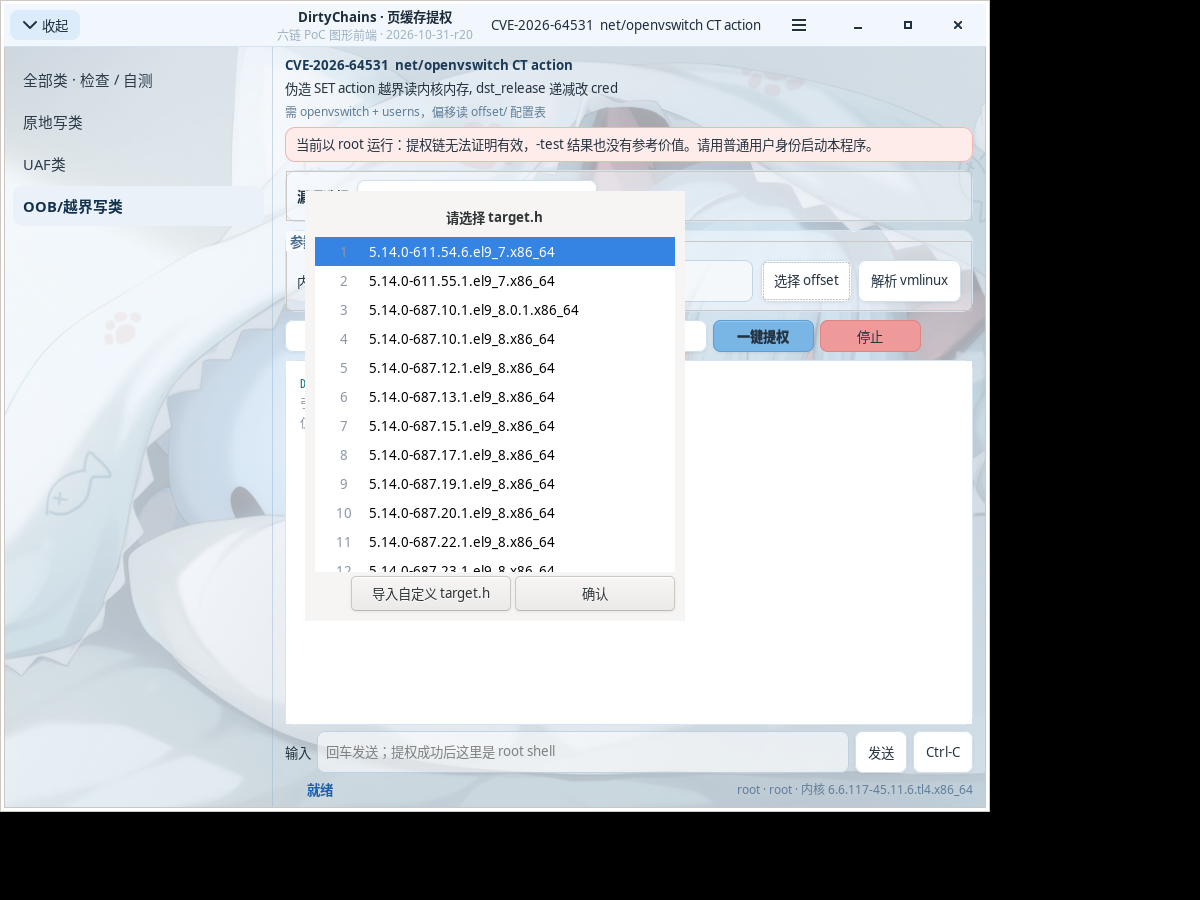
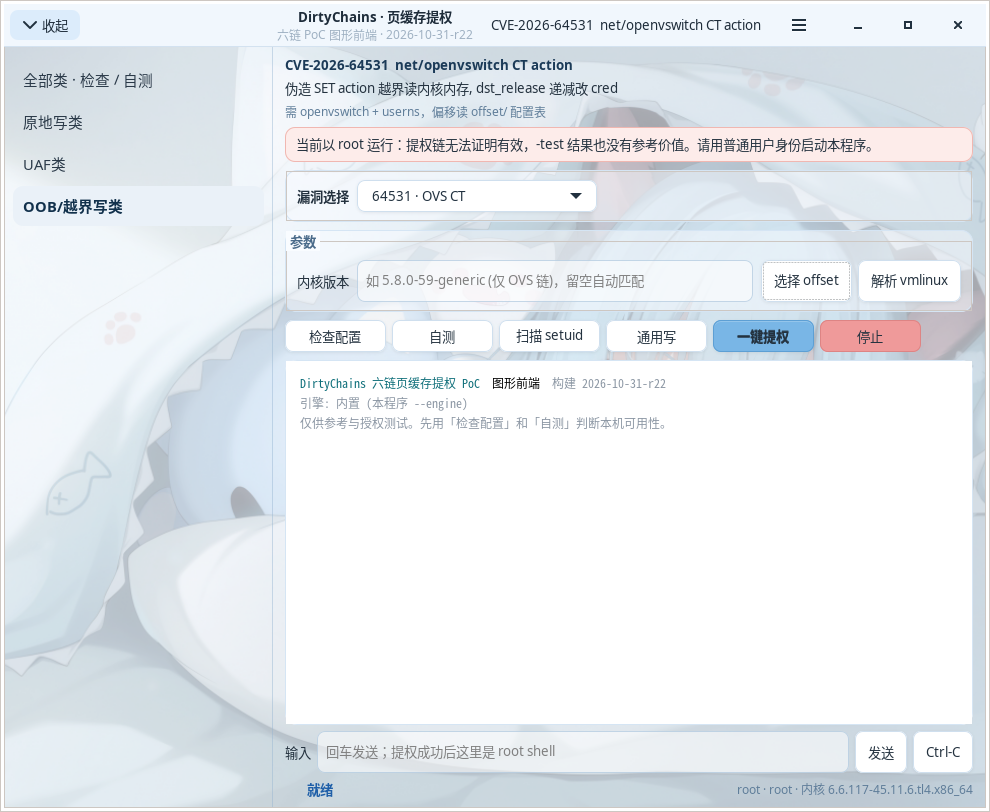
选择 target.h 窗口改为无边框圆角卡片：右上关闭、标题行可拖、Esc 关闭；新增关键字过滤(实时重编号)

diff --git a/dirtyfrag-gui.c b/dirtyfrag-gui.c
@@ -3693,7 +3693,7 @@ int ovswrap_main(int argc, char **argv)
 
 #define APP_TITLE       "DirtyChains · 页缓存提权"
 /* 构建标识: 标题栏副标题上直接显示, 用来确认跑的是不是最新这份 */
-#define DF_BUILD        "2026-10-31-r20"
+#define DF_BUILD        "2026-10-31-r22"
 #define APP_SUBTITLE    "六链 PoC 图形前端 · " DF_BUILD
 #define LOG_MAX_LINES   20000
 #define PTY_COLS        110
@@ -5196,9 +5196,14 @@ typedef struct {
     App        *a;
     GtkWidget  *dlg;
     GtkWidget  *list;       /* GtkListBox */
+    GtkWidget  *search;     /* 过滤输入框 */
     GPtrArray  *names;      /* 配置名 = target.h 上一级目录名 */
+    GPtrArray  *rows;       /* 与 names 平行的行 widget */
+    GPtrArray  *nos;        /* 与 names 平行的序号 label */
     char       *sel;        /* 当前选中的名字 */
 } PickCtx;
+
+static void pick_apply_filter(PickCtx *c);
 
 /* offset/ 目录里找 target.h: 名字取它上一级目录名, 去重后收集 */
 static void scan_target_hs(const char *base, int depth, GPtrArray *out)
@@ -5276,6 +5281,8 @@ static void pick_reload(PickCtx *c)
     g_list_free(children);
 
     g_ptr_array_set_size(c->names, 0);
+    g_ptr_array_set_size(c->rows, 0);
+    g_ptr_array_set_size(c->nos, 0);
     g_free(c->sel);
     c->sel = NULL;
 
@@ -5308,8 +5315,68 @@ static void pick_reload(PickCtx *c)
         gtk_widget_set_margin_bottom(h, 3);
         gtk_container_add(GTK_CONTAINER(row), h);
         gtk_container_add(GTK_CONTAINER(c->list), row);
+
+        g_ptr_array_add(c->rows, row);
+        g_ptr_array_add(c->nos, no);
     }
+    /* 先让新行进入"已显示"状态, 再按关键字过滤隐藏 */
     gtk_widget_show_all(c->list);
+    if (c->search)
+        pick_apply_filter(c);
+}
+
+/*
+ * 过滤: 关键字(不分大小写)匹配配置名, 只显示命中行;
+ * 显示出来的行按 1..N 重新编号。清空关键字恢复全量。
+ */
+static void pick_apply_filter(PickCtx *c)
+{
+    const char *raw = gtk_entry_get_text(GTK_ENTRY(c->search));
+    char *q = g_ascii_strdown(raw, -1);
+    guint i;
+    int seq = 0;
+    gboolean sel_hit = FALSE;
+
+    for (i = 0; i < c->names->len; i++) {
+        const char *nm = g_ptr_array_index(c->names, i);
+        char *ln = g_ascii_strdown(nm, -1);
+        gboolean hit = (*q == '\0') || strstr(ln, q) != NULL;
+        GtkWidget *row = g_ptr_array_index(c->rows, i);
+        char buf[16];
+
+        gtk_widget_set_visible(row, hit);
+        if (hit) {
+            g_snprintf(buf, sizeof(buf), "%d", ++seq);
+            gtk_label_set_text(GTK_LABEL(g_ptr_array_index(c->nos, i)), buf);
+            if (c->sel && !strcmp(nm, c->sel))
+                sel_hit = TRUE;
+        }
+        g_free(ln);
+    }
+    g_free(q);
+
+    /* 选中项被过滤掉了: 取消选中, 免得确认到看不见的项 */
+    if (c->sel && !sel_hit) {
+        g_free(c->sel);
+        c->sel = NULL;
+        gtk_list_box_unselect_all(GTK_LIST_BOX(c->list));
+    }
+}
+
+static void on_pick_search_changed(GtkEditable *ed, gpointer data)
+{
+    (void)ed;
+    pick_apply_filter(data);
+}
+
+/* 输入框右侧的小叉: 一键清空关键字 */
+static void on_pick_search_clear(GtkEntry *e, GtkEntryIconPosition pos,
+                                 GdkEventButton *ev, gpointer data)
+{
+    (void)ev;
+    (void)data;
+    if (pos == GTK_ENTRY_ICON_SECONDARY)
+        gtk_entry_set_text(e, "");
 }
 
 static void pick_free(PickCtx *c)
@@ -5319,6 +5386,8 @@ static void pick_free(PickCtx *c)
     for (i = 0; i < c->names->len; i++)
         g_free(g_ptr_array_index(c->names, i));
     g_ptr_array_free(c->names, TRUE);
+    g_ptr_array_free(c->rows, TRUE);   /* 行 widget 随窗口销毁, 只放数组 */
+    g_ptr_array_free(c->nos, TRUE);
     g_free(c->sel);
 }
 
@@ -5359,7 +5428,16 @@ static char *ask_name(GtkWidget *parent, const char *prefill)
 
 static void pick_confirm(PickCtx *c)
 {
-    if (c->sel) {
+    if (!c->sel) {
+        /* 没选任何一项: 留在窗口里, 到主窗口给个提示 */
+        gtk_label_set_text(GTK_LABEL(c->a->status_lbl),
+                           "请先在列表里选一项 target.h");
+        gtk_widget_set_name(c->a->status_lbl, "status-warn");
+        log_append_plain(c->a, "[!] 未选择 target.h：请在列表中点选一项后再确认。\n");
+        log_flush(c->a);
+        return;
+    }
+    {
         gtk_entry_set_text(GTK_ENTRY(c->a->entry_krec), c->sel);
         gtk_label_set_text(GTK_LABEL(c->a->status_lbl), "已选择 offset 表");
         gtk_widget_set_name(c->a->status_lbl, "status-ok");
@@ -5446,7 +5524,8 @@ static void on_pick_import(GtkWidget *w, gpointer data)
                     g_snprintf(msg, sizeof(msg),
                                "\033[32m[+] 已导入配置表 %s (%ld 字节)。\033[0m\n",
                                path, (long)strlen(content));
-                    log_append_plain(c->a, msg);
+                    log_flush(c->a);
+                    ansi_feed(c->a, msg, strlen(msg));
                     log_flush(c->a);
                 } else {
                     log_append_plain(c->a, "[!] 写入 offset/ 失败。\n");
@@ -5481,18 +5560,6 @@ static void on_pick_import(GtkWidget *w, gpointer data)
     }
 }
 
-static void on_pick_response(GtkDialog *dlg, gint resp, gpointer data)
-{
-    PickCtx *c = data;
-
-    (void)dlg;
-    if (resp == GTK_RESPONSE_OK)
-        pick_confirm(c);
-    else if (resp == GTK_RESPONSE_NONE + 1)
-        on_pick_import(NULL, c);
-    /* 其余 (删除窗口事件) 直接关 */
-}
-
 /* 弹窗销毁时释放上下文 (ctx 是静态的, 关掉后再点按钮会重建) */
 static void pick_dlg_destroy(GtkWidget *w, gpointer data)
 {
@@ -5504,13 +5571,48 @@ static void pick_dlg_destroy(GtkWidget *w, gpointer data)
     c->list = NULL;
 }
 
-/* 「选择 offset」: 开窗口遍历程序目录下的 offset/, 名字用 target.h
- * 上一级目录名; 确认后把名字填进内核版本框 (OVS 链的 -krec)。 */
+static void on_pick_confirm_btn(GtkWidget *w, gpointer data)
+{
+    (void)w;
+    pick_confirm(data);
+}
+
+/* Esc 关窗 */
+static gboolean on_pick_key(GtkWidget *w, GdkEventKey *ev, gpointer data)
+{
+    PickCtx *c = data;
+
+    (void)w;
+    if (ev->keyval == GDK_KEY_Escape) {
+        gtk_widget_destroy(c->dlg);
+        return TRUE;
+    }
+    return FALSE;
+}
+
+/* 无边框窗口: 按住标题行拖动 */
+static gboolean on_pick_drag(GtkWidget *w, GdkEventButton *ev, gpointer data)
+{
+    PickCtx *c = data;
+
+    (void)w;
+    if (ev->button != 1)
+        return FALSE;
+    gtk_window_begin_move_drag(GTK_WINDOW(c->dlg), (gint)ev->button,
+                               (gint)ev->x_root, (gint)ev->y_root, ev->time);
+    return TRUE;
+}
+
+/*
+ * 「选择 offset」: 圆角卡片窗口, 遍历程序目录下的 offset/,
+ * 名字用 target.h 上一级目录名; 确认后把名字填进内核版本框 (-krec)。
+ * 窗口本身透明 + RGBA visual, 圆角由 #pickinner 卡片画出。
+ */
 static void act_pick_offset(GtkWidget *w, gpointer data)
 {
     App *a = data;
     static PickCtx ctx;
-    GtkWidget *box, *lbl, *scroller;
+    GtkWidget *lbl, *scroller, *btns, *inner;
 
     (void)w;
     if (ctx.dlg) {   /* 已经开着, 提到前台即可 */
@@ -5520,22 +5622,87 @@ static void act_pick_offset(GtkWidget *w, gpointer data)
 
     ctx.a = a;
     ctx.names = g_ptr_array_new();
+    ctx.rows = g_ptr_array_new();
+    ctx.nos = g_ptr_array_new();
     ctx.sel = NULL;
 
-    ctx.dlg = gtk_dialog_new();
+    ctx.dlg = gtk_window_new(GTK_WINDOW_TOPLEVEL);
     gtk_window_set_title(GTK_WINDOW(ctx.dlg), "请选择 target.h");
     gtk_window_set_transient_for(GTK_WINDOW(ctx.dlg), GTK_WINDOW(a->window));
     gtk_window_set_modal(GTK_WINDOW(ctx.dlg), TRUE);
-    gtk_window_set_default_size(GTK_WINDOW(ctx.dlg), 380, 430);
+    gtk_window_set_default_size(GTK_WINDOW(ctx.dlg), 390, 460);
+    gtk_window_set_resizable(GTK_WINDOW(ctx.dlg), FALSE);
+    /* 去掉系统边框: 圆角完全由 #pickinner 卡片呈现 */
+    gtk_window_set_decorated(GTK_WINDOW(ctx.dlg), FALSE);
+    g_signal_connect(ctx.dlg, "key-press-event", G_CALLBACK(on_pick_key), &ctx);
     g_signal_connect(ctx.dlg, "destroy", G_CALLBACK(pick_dlg_destroy), &ctx);
 
-    box = gtk_dialog_get_content_area(GTK_DIALOG(ctx.dlg));
-    gtk_container_set_border_width(GTK_CONTAINER(box), 10);
+    {
+        GdkScreen *scr = gtk_widget_get_screen(ctx.dlg);
+        GdkVisual *vis = gdk_screen_get_rgba_visual(scr);
+
+        if (vis)
+            gtk_widget_set_visual(ctx.dlg, vis);
+    }
+    gtk_widget_set_app_paintable(ctx.dlg, TRUE);
+    gtk_widget_set_name(ctx.dlg, "pickdlg");
+
+    /* 圆角卡片本体 */
+    inner = gtk_box_new(GTK_ORIENTATION_VERTICAL, 8);
+    gtk_widget_set_name(inner, "pickinner");
+    gtk_widget_set_margin_top(inner, 12);
+    gtk_widget_set_margin_bottom(inner, 12);
+    gtk_widget_set_margin_start(inner, 12);
+    gtk_widget_set_margin_end(inner, 12);
+    gtk_container_add(GTK_CONTAINER(ctx.dlg), inner);
 
     lbl = gtk_label_new(NULL);
     gtk_label_set_markup(GTK_LABEL(lbl), "<b>请选择 target.h</b>");
     gtk_widget_set_halign(lbl, GTK_ALIGN_CENTER);
-    gtk_box_pack_start(GTK_BOX(box), lbl, FALSE, FALSE, 6);
+
+    /* 标题行: 标题居中, 右上角圆形关闭; 整行可拖动窗口 */
+    {
+        GtkWidget *head = gtk_box_new(GTK_ORIENTATION_HORIZONTAL, 0);
+        GtkWidget *sp = gtk_label_new("");
+        GtkWidget *x = gtk_button_new();
+
+        gtk_widget_set_size_request(sp, 26, -1);
+        gtk_box_pack_start(GTK_BOX(head), sp, FALSE, FALSE, 0);
+        gtk_box_pack_start(GTK_BOX(head), lbl, TRUE, TRUE, 0);
+
+        gtk_widget_set_name(x, "pickclose");
+        gtk_button_set_relief(GTK_BUTTON(x), GTK_RELIEF_NONE);
+        gtk_widget_set_valign(x, GTK_ALIGN_CENTER);
+        gtk_widget_set_tooltip_text(x, "关闭 (Esc)");
+        gtk_container_add(GTK_CONTAINER(x),
+                          gtk_image_new_from_icon_name("window-close-symbolic",
+                                                       GTK_ICON_SIZE_MENU));
+        g_signal_connect_swapped(x, "clicked", G_CALLBACK(gtk_widget_destroy),
+                                 ctx.dlg);
+        gtk_box_pack_end(GTK_BOX(head), x, FALSE, FALSE, 0);
+
+        gtk_widget_add_events(head, GDK_BUTTON_PRESS_MASK);
+        g_signal_connect(head, "button-press-event",
+                         G_CALLBACK(on_pick_drag), &ctx);
+        gtk_box_pack_start(GTK_BOX(inner), head, FALSE, FALSE, 2);
+    }
+
+    /* 过滤框: 实时按关键字过滤并重新编号 */
+    ctx.search = gtk_entry_new();
+    gtk_entry_set_placeholder_text(GTK_ENTRY(ctx.search),
+                                   "过滤：输入版本号关键字，如 6.6");
+    gtk_entry_set_icon_from_icon_name(GTK_ENTRY(ctx.search),
+                                      GTK_ENTRY_ICON_PRIMARY,
+                                      "edit-find-symbolic");
+    gtk_entry_set_icon_from_icon_name(GTK_ENTRY(ctx.search),
+                                      GTK_ENTRY_ICON_SECONDARY,
+                                      "edit-clear-symbolic");
+    gtk_widget_set_name(ctx.search, "picksearch");
+    g_signal_connect(ctx.search, "changed",
+                     G_CALLBACK(on_pick_search_changed), &ctx);
+    g_signal_connect(ctx.search, "icon-press",
+                     G_CALLBACK(on_pick_search_clear), &ctx);
+    gtk_box_pack_start(GTK_BOX(inner), ctx.search, FALSE, FALSE, 0);
 
     scroller = gtk_scrolled_window_new(NULL, NULL);
     gtk_scrolled_window_set_policy(GTK_SCROLLED_WINDOW(scroller),
@@ -5550,16 +5717,46 @@ static void act_pick_offset(GtkWidget *w, gpointer data)
     g_signal_connect(ctx.list, "row-activated",
                      G_CALLBACK(on_pick_row_activated), &ctx);
     gtk_container_add(GTK_CONTAINER(scroller), ctx.list);
-    gtk_box_pack_start(GTK_BOX(box), scroller, TRUE, TRUE, 4);
+    gtk_widget_set_name(scroller, "pickscroll");
+    gtk_box_pack_start(GTK_BOX(inner), scroller, TRUE, TRUE, 0);
 
-    /* 双击条目 = 确认; 下面两个按钮: 导入自定义 / 确认 */
-    gtk_dialog_add_button(GTK_DIALOG(ctx.dlg), "导入自定义 target.h",
-                          GTK_RESPONSE_NONE + 1);
-    gtk_dialog_add_button(GTK_DIALOG(ctx.dlg), "确认", GTK_RESPONSE_OK);
-    g_signal_connect(ctx.dlg, "response", G_CALLBACK(on_pick_response), &ctx);
+    /* 底部两个按钮: 导入自定义 / 确认 (双击条目 = 确认) */
+    btns = gtk_box_new(GTK_ORIENTATION_HORIZONTAL, 10);
+    gtk_widget_set_halign(btns, GTK_ALIGN_CENTER);
+
+    gtk_box_pack_start(GTK_BOX(btns),
+                       gtk_label_new(""), FALSE, FALSE, 0);
+    {
+        GtkWidget *b = gtk_button_new_with_label("导入自定义 target.h");
+
+        g_signal_connect(b, "clicked", G_CALLBACK(on_pick_import), &ctx);
+        gtk_box_pack_start(GTK_BOX(btns), b, FALSE, FALSE, 0);
+    }
+    {
+        GtkWidget *b = gtk_button_new_with_label("确认");
+
+        gtk_widget_set_name(b, "pickok");
+        g_signal_connect(b, "clicked", G_CALLBACK(on_pick_confirm_btn), &ctx);
+        gtk_box_pack_start(GTK_BOX(btns), b, FALSE, FALSE, 0);
+    }
+    gtk_box_pack_start(GTK_BOX(inner), btns, FALSE, FALSE, 2);
 
     pick_reload(&ctx);
     gtk_widget_show_all(ctx.dlg);
+
+    /* 居中到主窗口 (无窗口管理器时也能摆正) */
+    {
+        GdkWindow *pw = gtk_widget_get_window(a->window);
+
+        if (pw) {
+            gint px = 0, py = 0;
+
+            gdk_window_get_origin(pw, &px, &py);
+            gtk_window_move(GTK_WINDOW(ctx.dlg),
+                            px + (gdk_window_get_width(pw) - 390) / 2,
+                            py + (gdk_window_get_height(pw) - 460) / 2);
+        }
+    }
 }
 
 static void on_toggle_expand(GtkWidget *w, gpointer data)
@@ -5792,6 +5989,42 @@ static void install_css(void)
         "#mainwin #title-name  { color: #1b3a57; }\n"
         "#mainwin #hint { color: #5f7d99; font-size: 9pt; }\n"
         "dialog #pickno { color: #8a97a5; }\n"
+        "/* 「选择 offset」弹窗: 透明窗口 + 圆角卡片 + 过滤框 */\n"
+        "#pickdlg { background-color: transparent; }\n"
+        "#pickinner {\n"
+        "  background-color: #f8fbff;\n"
+        "  border: 1px solid #c9d9ea;\n"
+        "  border-radius: 16px;\n"
+        "}\n"
+        "#picksearch {\n"
+        "  background-color: #ffffff;\n"
+        "  border: 1px solid #c5d5e4;\n"
+        "  border-radius: 14px;\n"
+        "  padding: 4px 10px;\n"
+        "}\n"
+        "#picksearch:focus { border-color: #7fb3e3; }\n"
+        "#pickclose {\n"
+        "  background-image: none;\n"
+        "  background-color: transparent;\n"
+        "  border: none;\n"
+        "  box-shadow: none;\n"
+        "  border-radius: 100px;\n"
+        "  padding: 2px;\n"
+        "  min-width: 22px;\n"
+        "  min-height: 22px;\n"
+        "  color: #6b8099;\n"
+        "}\n"
+        "#pickclose:hover { background-color: #e8eff7; }\n"
+        "#pickok {\n"
+        "  background-image: none;\n"
+        "  background-color: #2f7fd0;\n"
+        "  color: #ffffff;\n"
+        "  border: 1px solid #2a72bc;\n"
+        "  border-radius: 8px;\n"
+        "  padding: 5px 18px;\n"
+        "}\n"
+        "#pickok:hover { background-color: #3a8ade; }\n"
+        "#pickscroll, #pickscroll viewport { background-color: transparent; }\n"
         "#mainwin #banner-warn {\n"
         "  background-color: #fdecea;\n"
         "  color: #9c1c16;\n"
